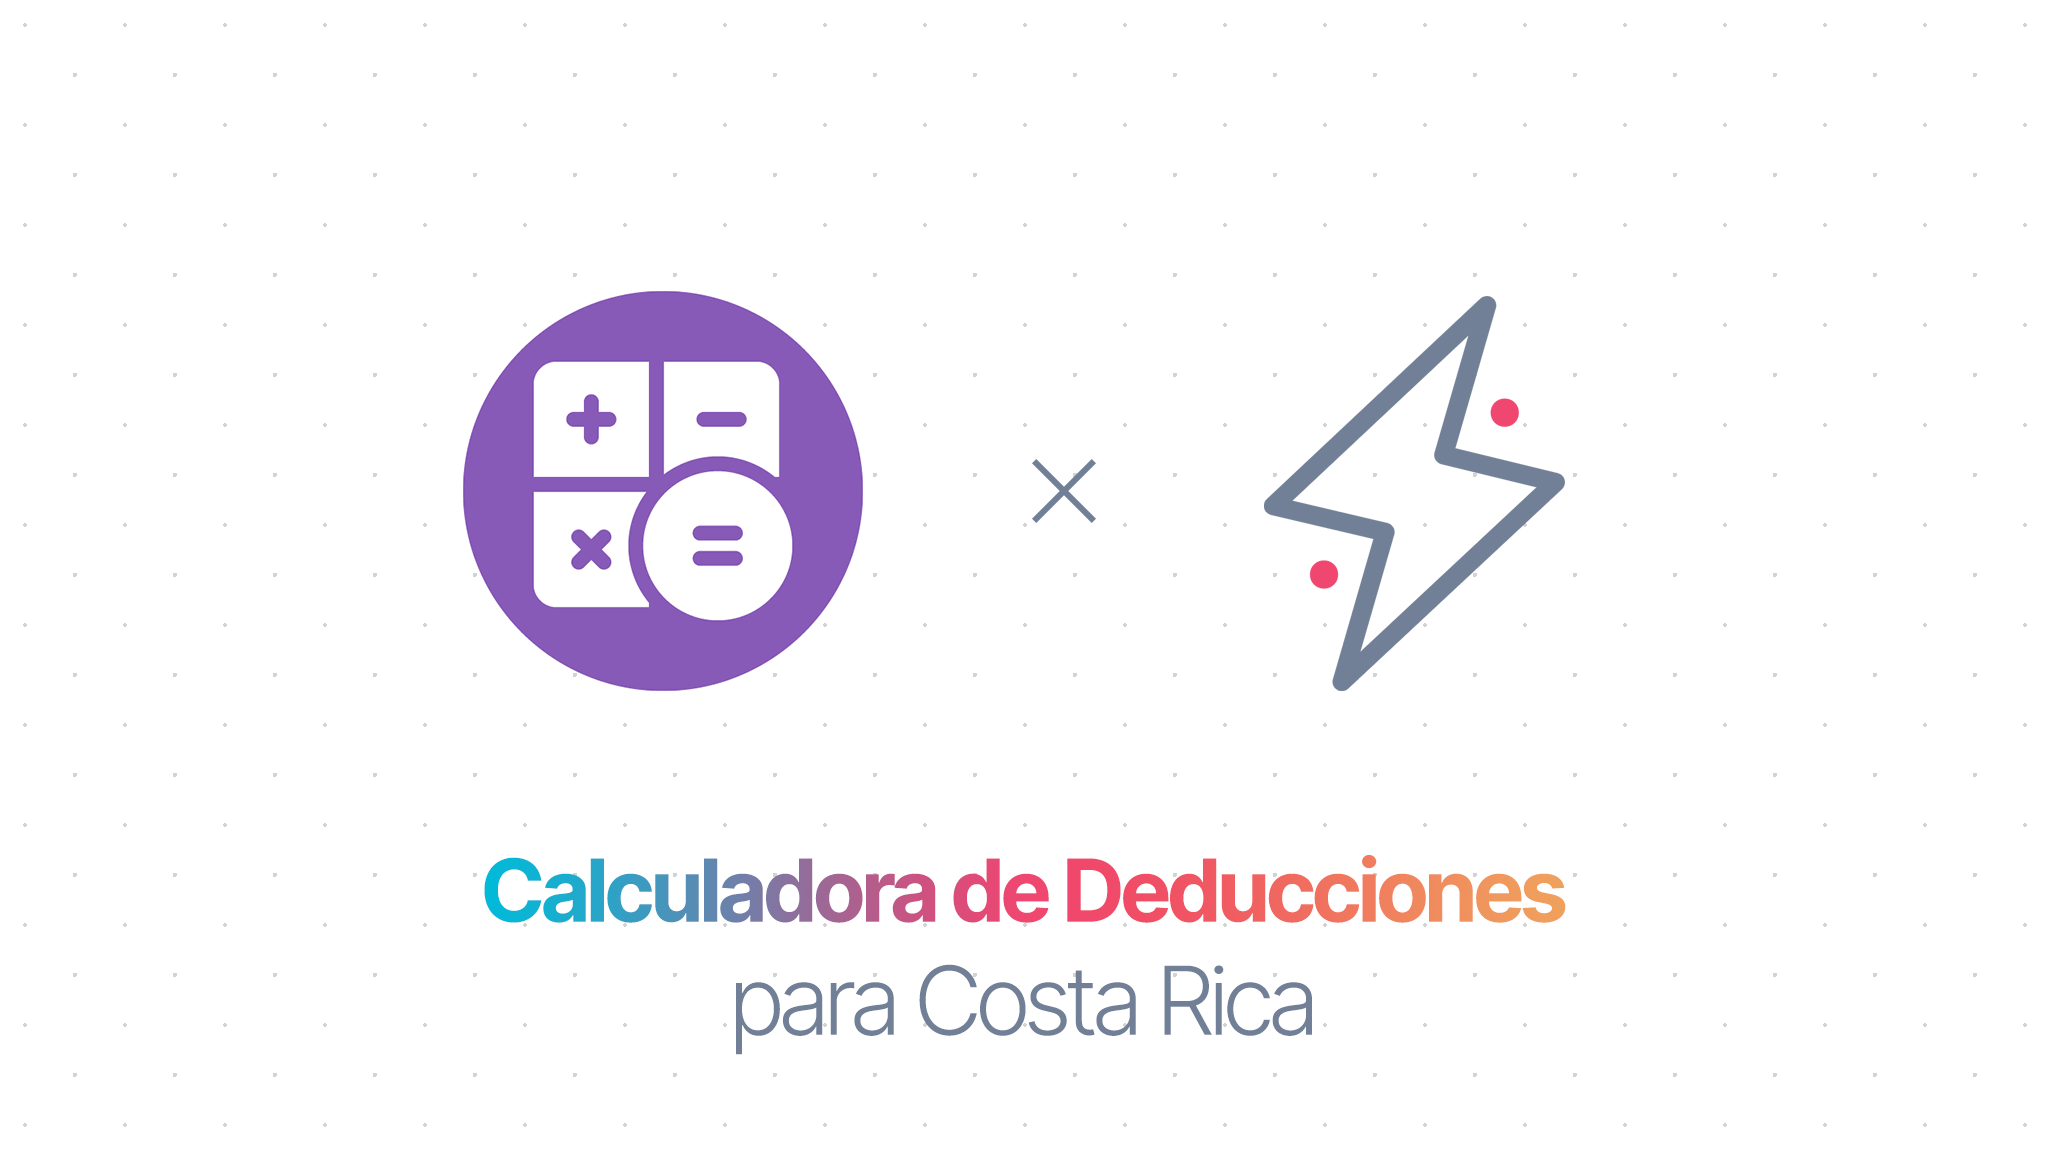
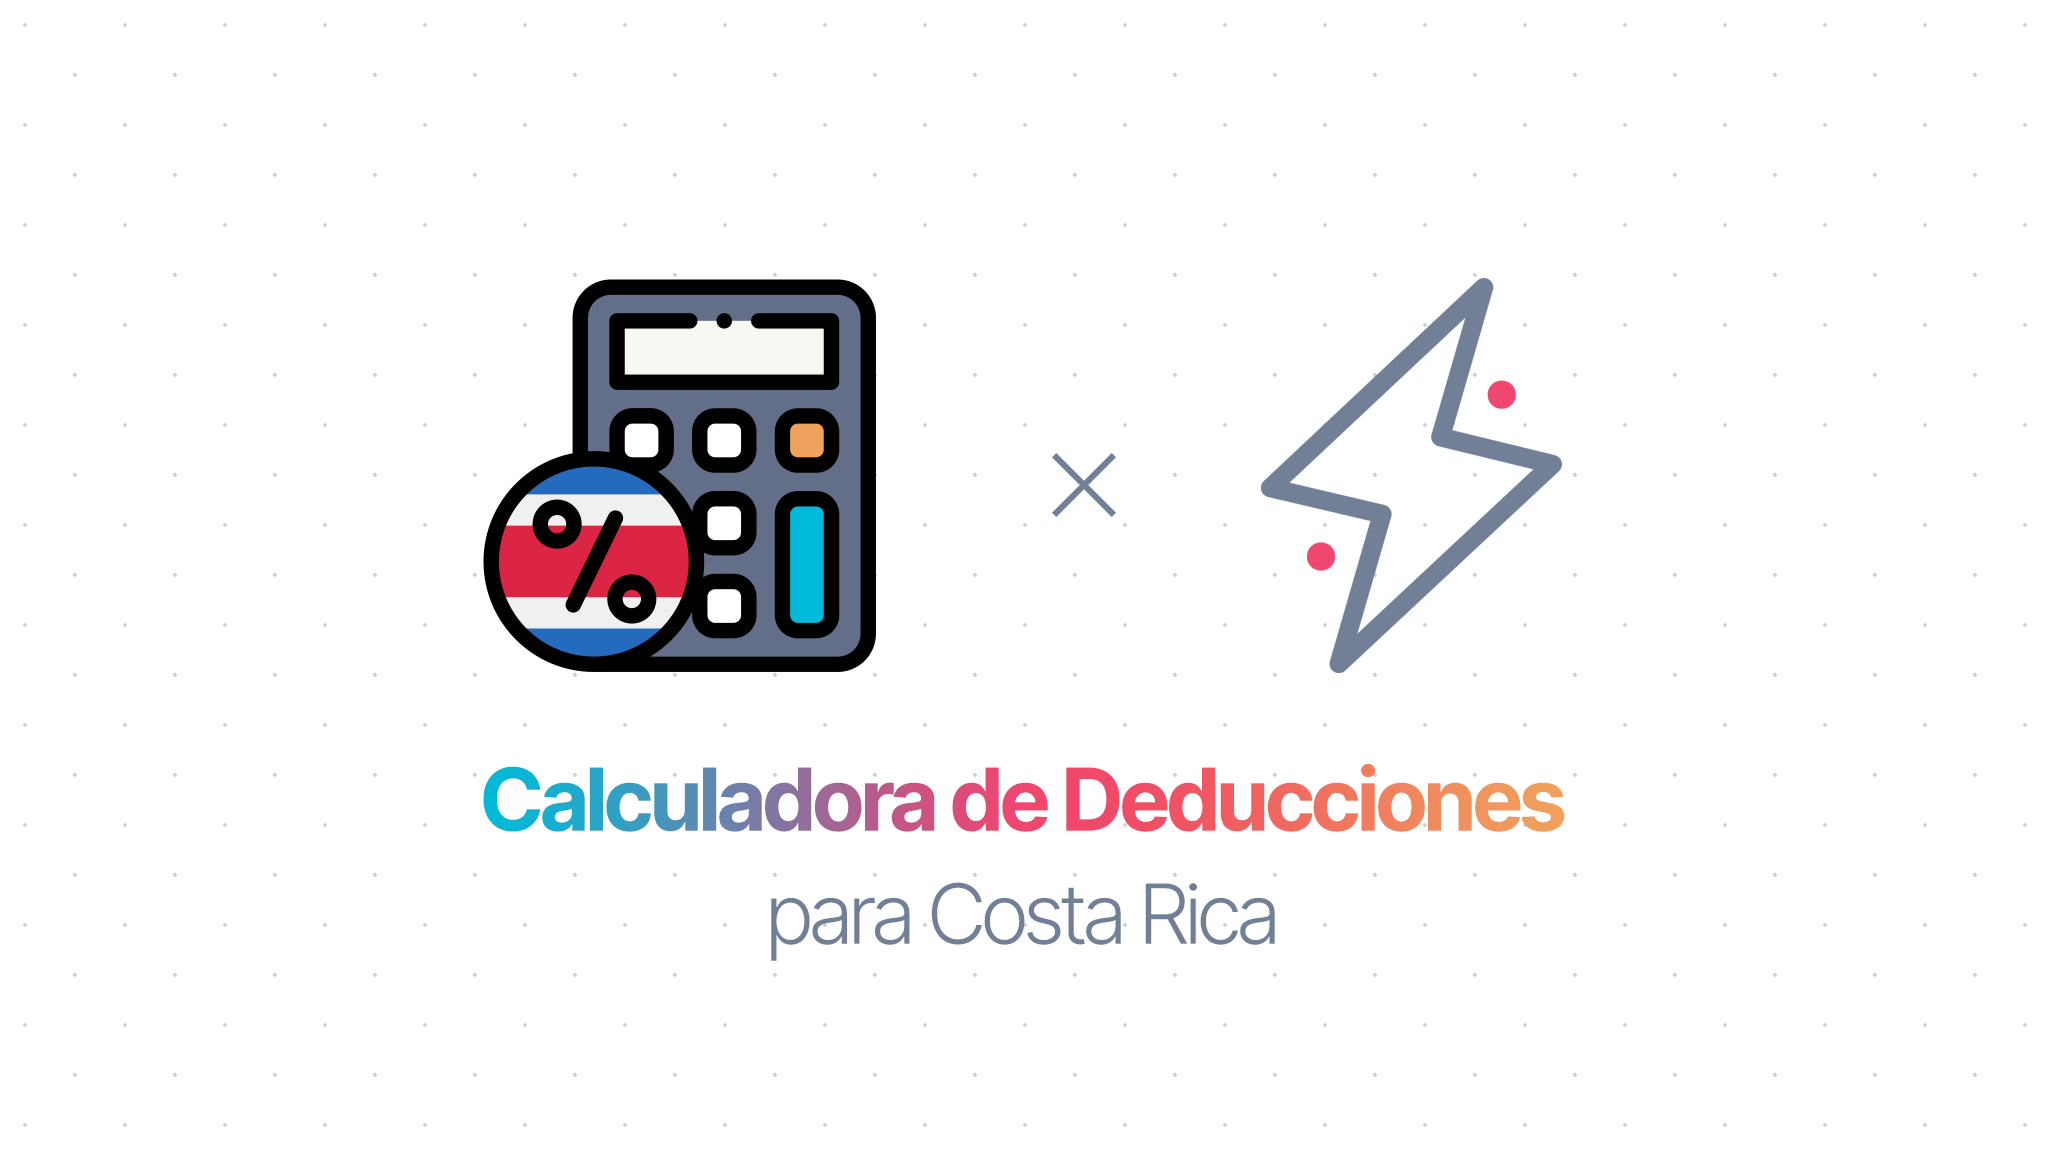
feat: projects homepage

diff --git a/pages/projects/index.js b/pages/projects/index.js
@@ -1,3 +1,4 @@
+import Image from 'next/image';
 import Link from 'next/link';
 
 import Heading from '@/components/heading';
@@ -9,11 +10,24 @@ const Calculator = () => {
   return (
     <>
       <Heading>{t('projects')}</Heading>
-      <ul className='my-4 list-disc list-inside'>
-        <li>
-          <Link href='/projects/tax-calculator-crc'>{t('calculator')}</Link>
-        </li>
-      </ul>
+      <section className='flex flex-wrap my-4'>
+        <article className='w-1/2 md:w-1/3'>
+          <Link href='/projects/tax-calculator-crc'>
+            <a className='block p-4 m-1 font-bold text-center transition-all border border-gray-200 rounded-md shadow-lg hover:shadow-xl'>
+              <Image
+                alt={t('calculator')}
+                className='rounded-md'
+                height={1134}
+                layout='responsive'
+                priority
+                src='/images/calculator-logo.png'
+                width={1134}
+              />
+              {t('calculator')}
+            </a>
+          </Link>
+        </article>
+      </section>
     </>
   );
 };
